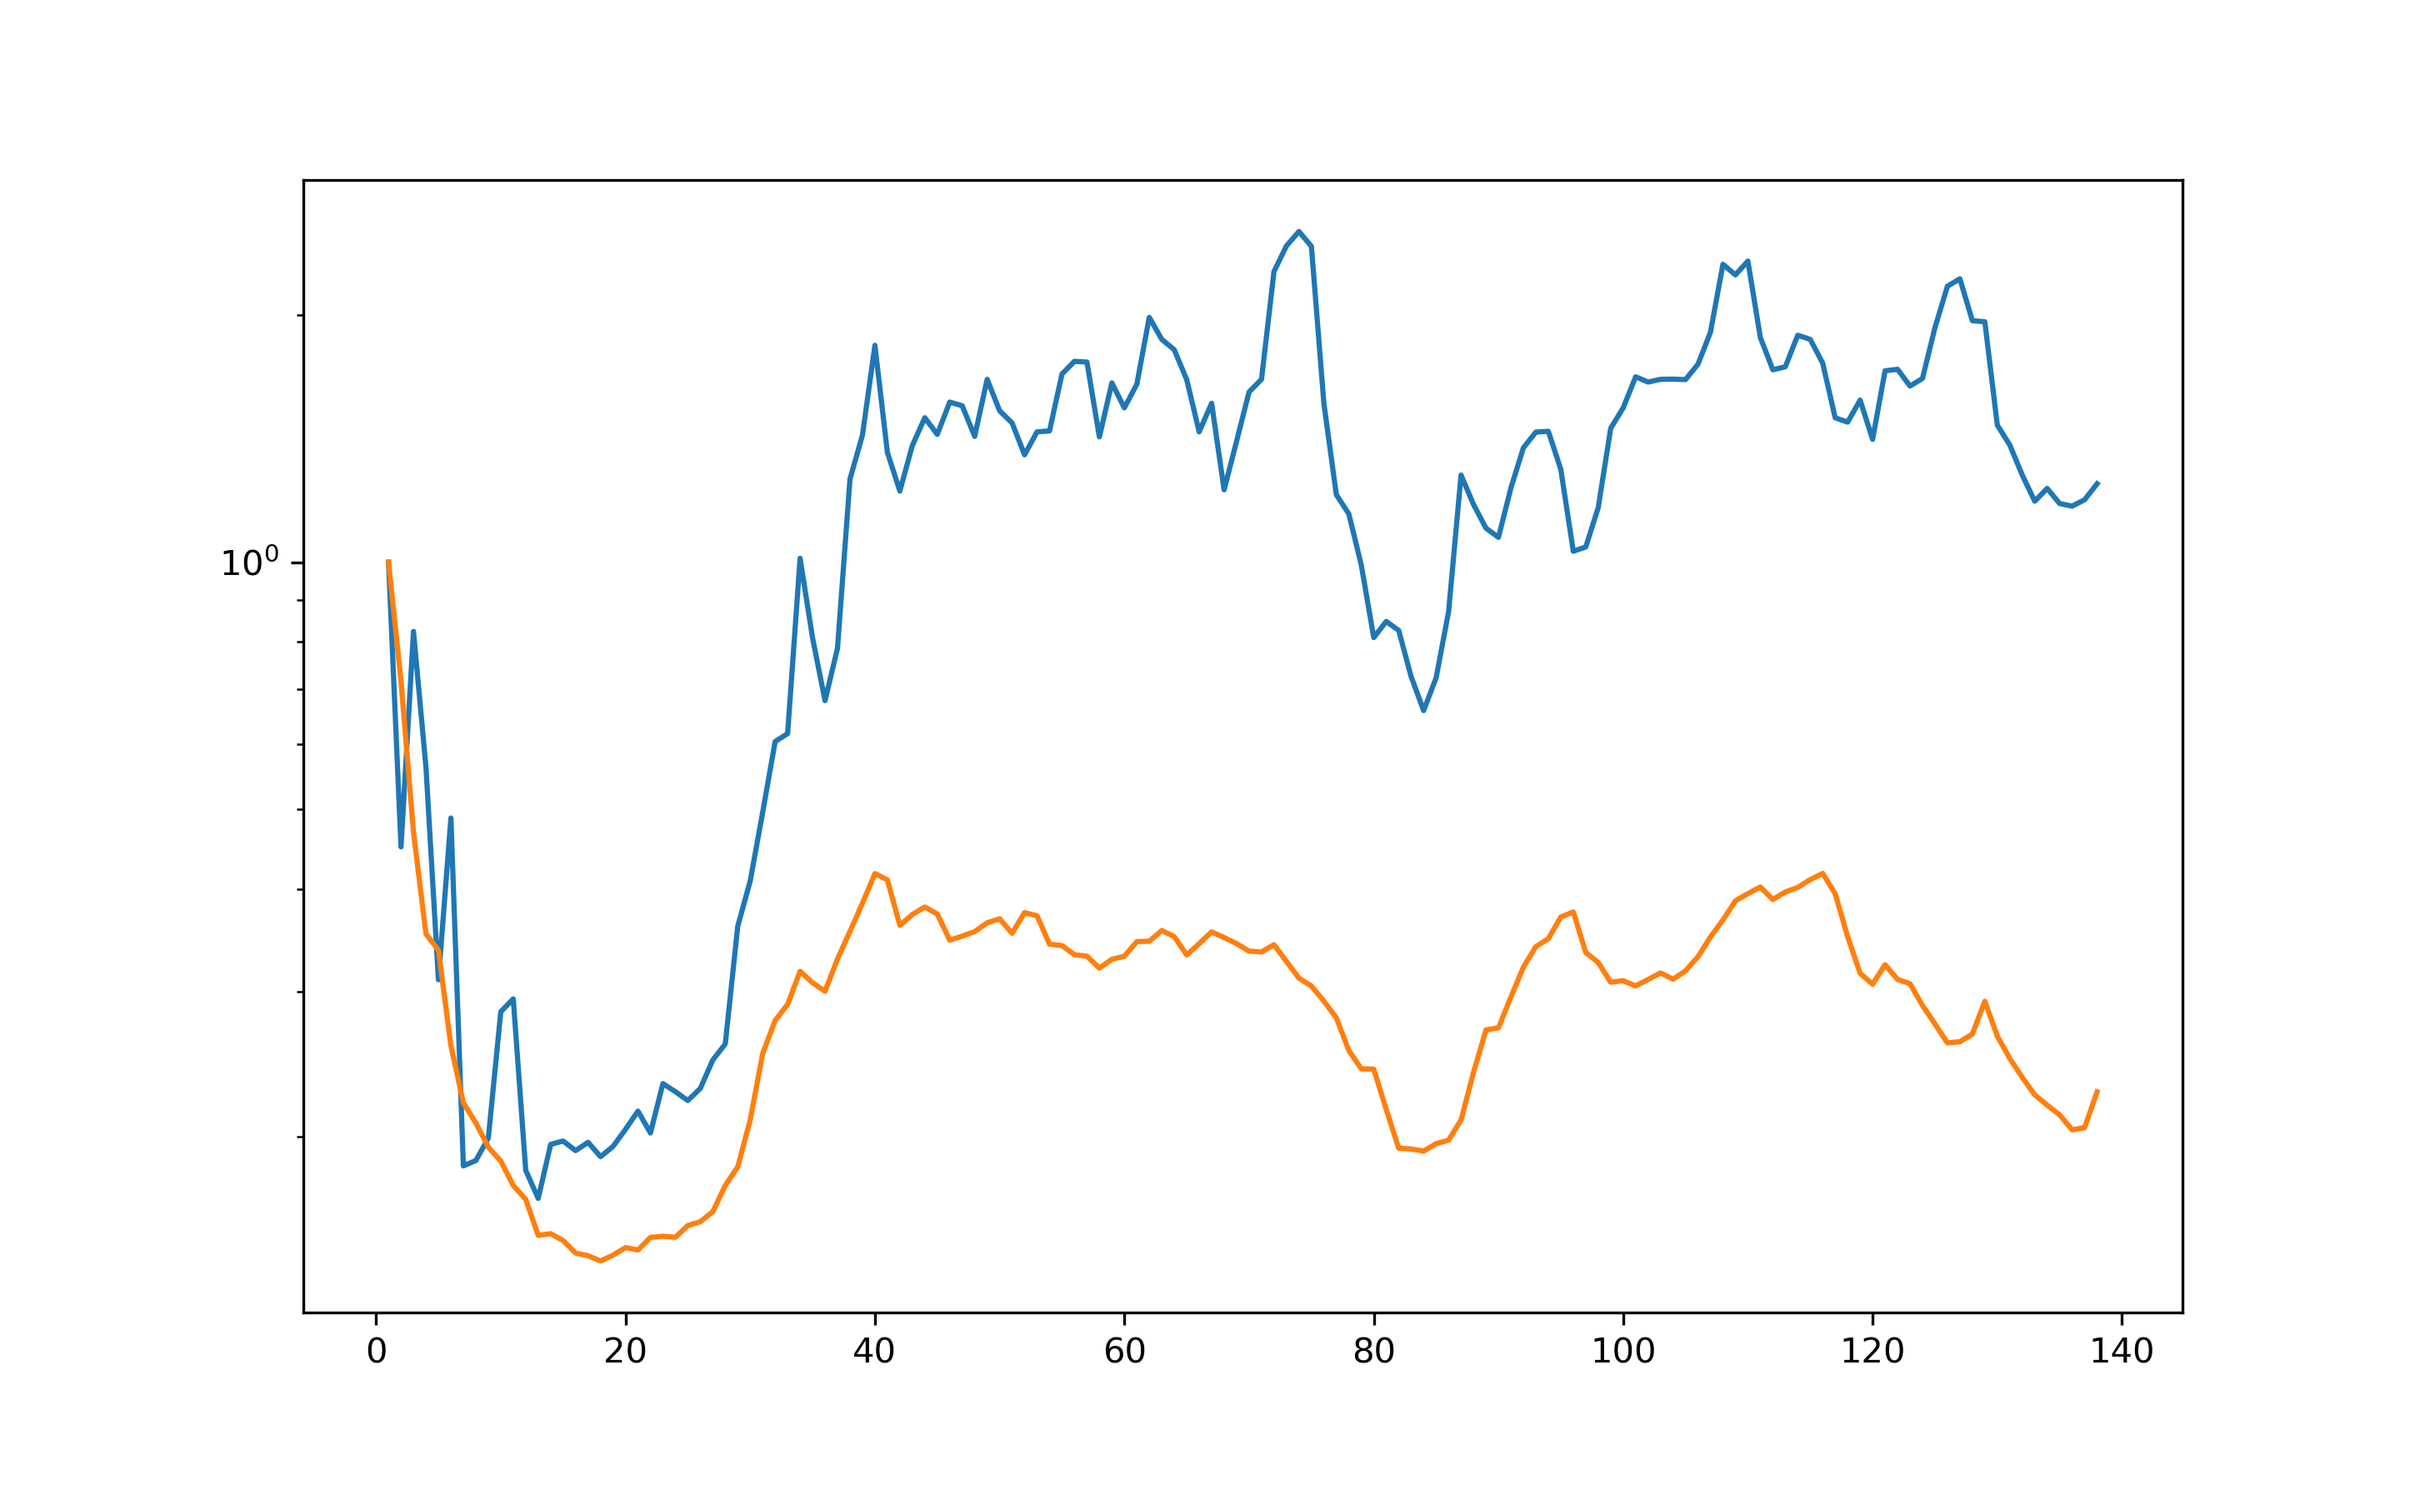
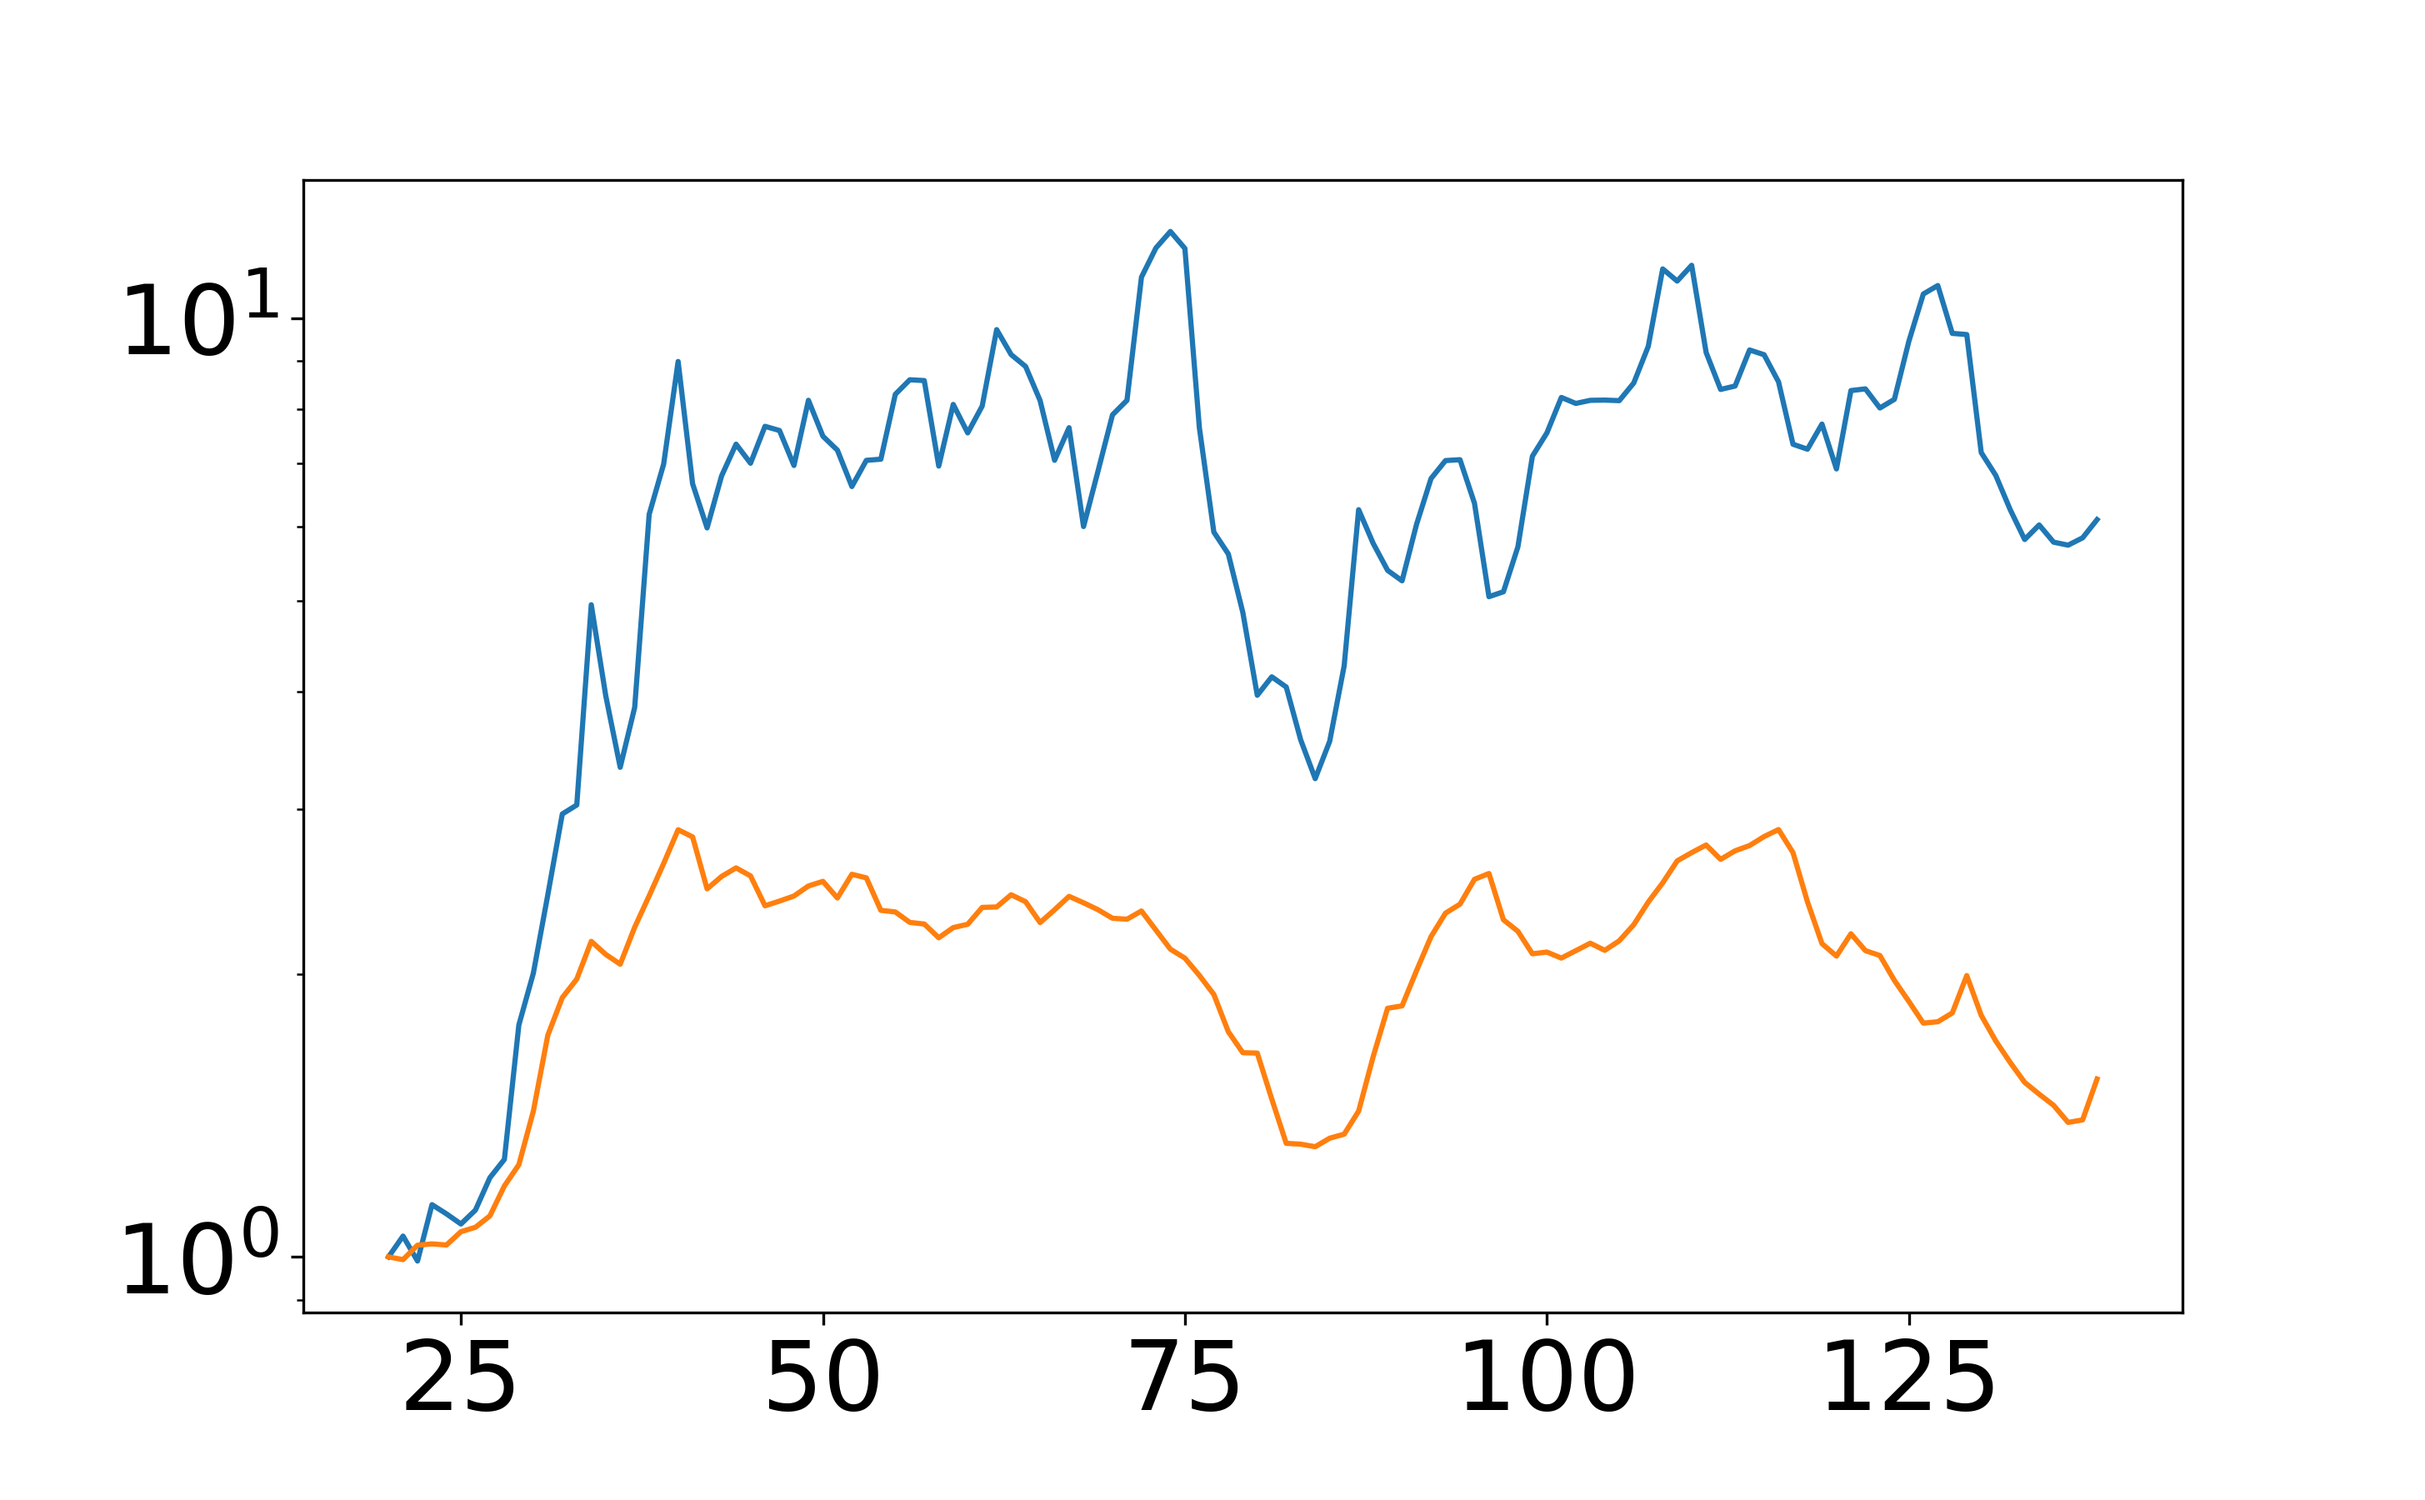
Updates from Overleaf

diff --git a/2023Dundee/2023Dundee.tex b/2023Dundee/2023Dundee.tex
@@ -298,6 +298,29 @@ Whole host of assumptions: constant pressure, self-similar, HD evolution, $C_1 \
 \includegraphics[width=0.85\linewidth,clip=true,trim=0.0cm 0.0cm 0.9cm 0.8cm]{2023Dundee/Figures/integrated_thermal_energy_2.png}
 \end{frame}
 
+\begin{frame}{Predicted cooling rate vs simulations}
+\begin{columns}
+\begin{column}{0.6\textwidth}
+\begin{itemize}
+    \item KHI-driven heating assumed to explain observations.
+    \item Radiative losses lead to cooling of intermediate temperature that form
+    \item KHI-induced cooling!
+    \item But also dense! Dense material leads to more emission. 
+    \item Intensity $\approx \int n_e^2 G(T) dl$
+    \item How does this look as an observable?
+\end{itemize}
+%\includegraphics[width=1.0\textwidth,clip=true,trim=1.0cm 1.0cm 1.0cm 1.0cm]{obs_shockloc_contour.png}
+\end{column}
+\begin{column}{0.4\textwidth}
+   \includegraphics[width=0.99\linewidth,clip=true,trim=58.9cm 0.8cm 8.9cm 0.8cm]{2023Dundee/Figures/denstempevo_T_t0071.png} \\
+   \includegraphics[width=0.99\linewidth,clip=true,trim=58.9cm 0.8cm 8.9cm 0.8cm]{2023Dundee/Figures/denstempevo_rho_t0071.png}
+%\includegraphics[width=0.95\linewidth]{2023Dundee/Figures/waveheating.png} 
+%\includegraphics[width=0.95\linewidth]{2023Dundee/Figures/reconnection.png} 
+%Conservative equations (e.g., two-fluid with thermal collisions) leads to MHD shock jumps, Snow \& Hillier 2019.
+\end{column}
+\end{columns}
+\end{frame}
+
 % \begin{frame}{Maximum theoretical heating/cooling}
 % \begin{columns}
 % \begin{column}{0.8\textwidth}
@@ -336,8 +359,9 @@ Whole host of assumptions: constant pressure, self-similar, HD evolution, $C_1 \
 \begin{columns}
 \begin{column}{0.4\textwidth}
 \begin{itemize}
+    \item Synthesise observation from numerical data
     \item Simple optically-thin emission $I= \int \rho^2 G(\rho,T) dl$
-    \item MgII ($\approx 10^4$), SiIV ($\approx 10^5$)
+    \item MgII ($T \approx 10^4$, orange), SiIV ($T\approx 10^5$, blue)
 \end{itemize}
 \end{column}
 \begin{column}{0.6\textwidth}
@@ -349,26 +373,7 @@ Whole host of assumptions: constant pressure, self-similar, HD evolution, $C_1 \
 \end{columns}
 \end{frame}
 
-\begin{frame}{Comparison of synthetic and real observations}
-\begin{columns}
-\begin{column}{0.8\textwidth}
-\begin{figure}
-\includegraphics[width=0.95\linewidth]{2023Dundee/Figures/KHIrl2D_thinintens_mir.png}
-    %\centering
-%    \includegraphics[width=0.95\linewidth,clip=true,trim=0.9cm 0.8cm 0.9cm 0.8cm]{Figures/contextplot.png}
-    %\caption{Upper-chromosphere case showing the $v_x$ velocity (top left), $B_y$ magnetic field (top right), temperature (lower left) and density (lower right). For panel c, the reference temperature $T_0=6220$.}
-%    \label{fig:upperchromocontext}
-\end{figure}
-\end{column}
-\begin{column}{0.2\textwidth}
-%\begin{itemize}
-%    $T_0=6220$, $n_e=7.5\times 10^{16}$, $\xi_n=0.87$
-%\end{itemize}
-\end{column}
-\end{columns}
-\end{frame}
-
-\begin{frame}{Comparison of synthetic and real observations}
+\begin{frame}{Synthetic observations - parallel to mixing layer}
 \begin{figure}
 \includegraphics[width=0.95\linewidth]{2023Dundee/Figures/KHIrl2D_dt_thinintens.png}
     %\centering
@@ -378,10 +383,17 @@ Whole host of assumptions: constant pressure, self-similar, HD evolution, $C_1 \
 \end{figure}
 \end{frame}
 
+\begin{frame}{Synthetic observations - perpendicular to mixing layer}
+\includegraphics[width=0.95\linewidth]{2023Dundee/Figures/KHIrl2D_thinintens_mir.png}
+\end{frame}
+
 \begin{frame}{Conclusions}
+\includegraphics[width=0.95\linewidth]{2023Dundee/Figures/observation.png}
 \begin{itemize}
-    \item KHI mixing can induce cooling of solar material
-    \item Manifests in observation as 'heating'
+    \item KHI mixing can induce cooling of solar material.
+    \item Analytical approximations seem to match the results well for width and loss rate.
+    \item May manifest in observation in same way as heating.
+    \item Is this observation showing heating or cooling?
 \end{itemize}
 \end{frame}
 
